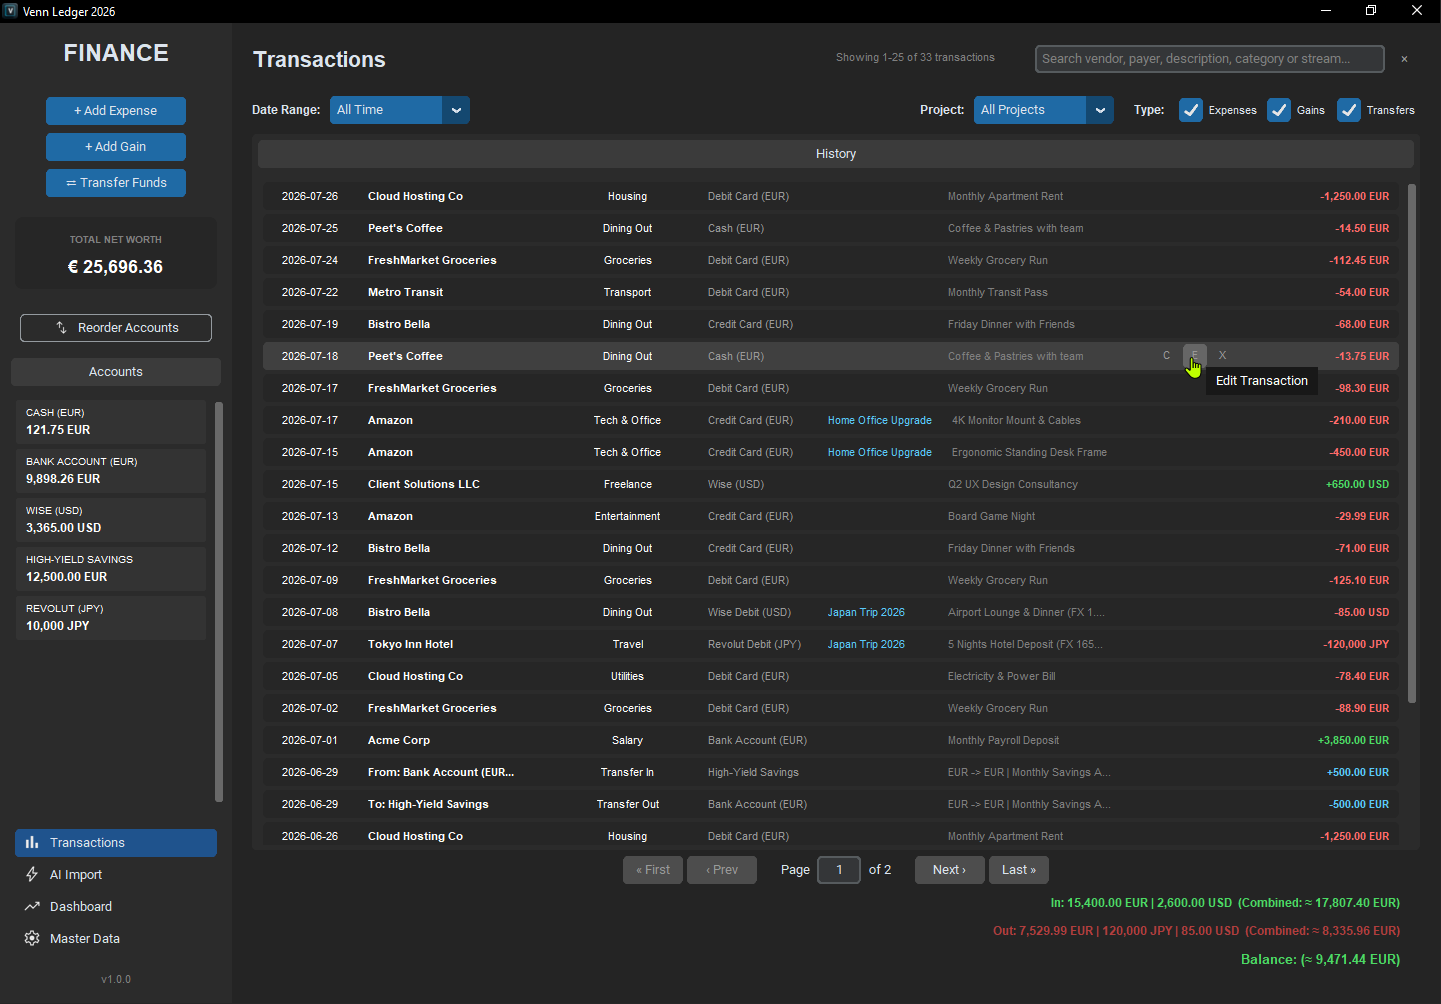
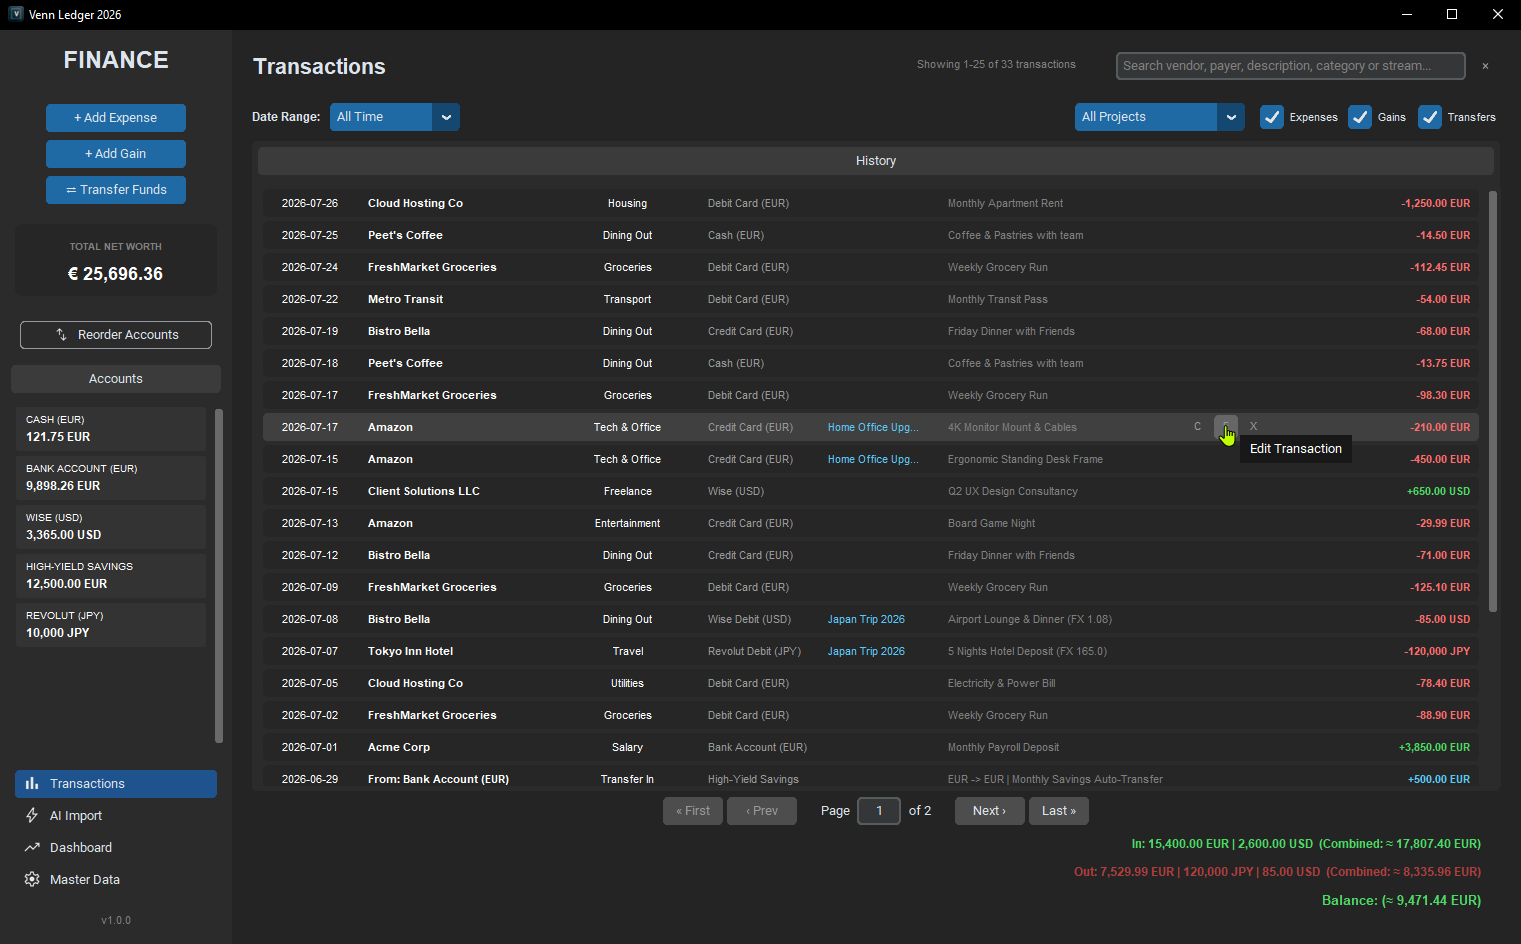
Updated screenshots, ready for release

Changed region(s): [[0.0, 0.1843, 0.9993, 0.9831], [0.0, 0.0, 1.0, 0.6758], [0.5621, 0.1229, 0.5933, 0.1843]]

diff --git a/gui/master_data_grids.py b/gui/master_data_grids.py
@@ -246,7 +246,7 @@ class SimpleMasterDataGrid(AsyncPaginatedGrid):
     def add_new(self):
         def _save(new_name, new_desc):
             try:
-                if self.model.__name__ == "Project" and new_name.strip().lower() in ["all projects", "no project"]:
+                if self.model.__name__ == "Project" and new_name.strip().lower() in ["all projects", "no project", "none"]:
                     return False, "This is a reserved system name."
 
                 existing_item = self.db_session.query(self.model).filter_by(name=new_name).first()

diff --git a/gui/transaction_forms.py b/gui/transaction_forms.py
@@ -469,7 +469,7 @@ class BaseTransactionWindow(ctk.CTkToplevel):
             return
 
         proj_val = self.project_combo.get().strip()
-        if proj_val.lower() in ["all projects", "no project"]:
+        if proj_val.lower() in ["all projects", "no project", "none"]:
             self.save_btn.configure(state="disabled", fg_color="gray30", text_color="white")
             self.error_label.set_text(f"⚠ '{proj_val}' is a reserved system name")
             return
